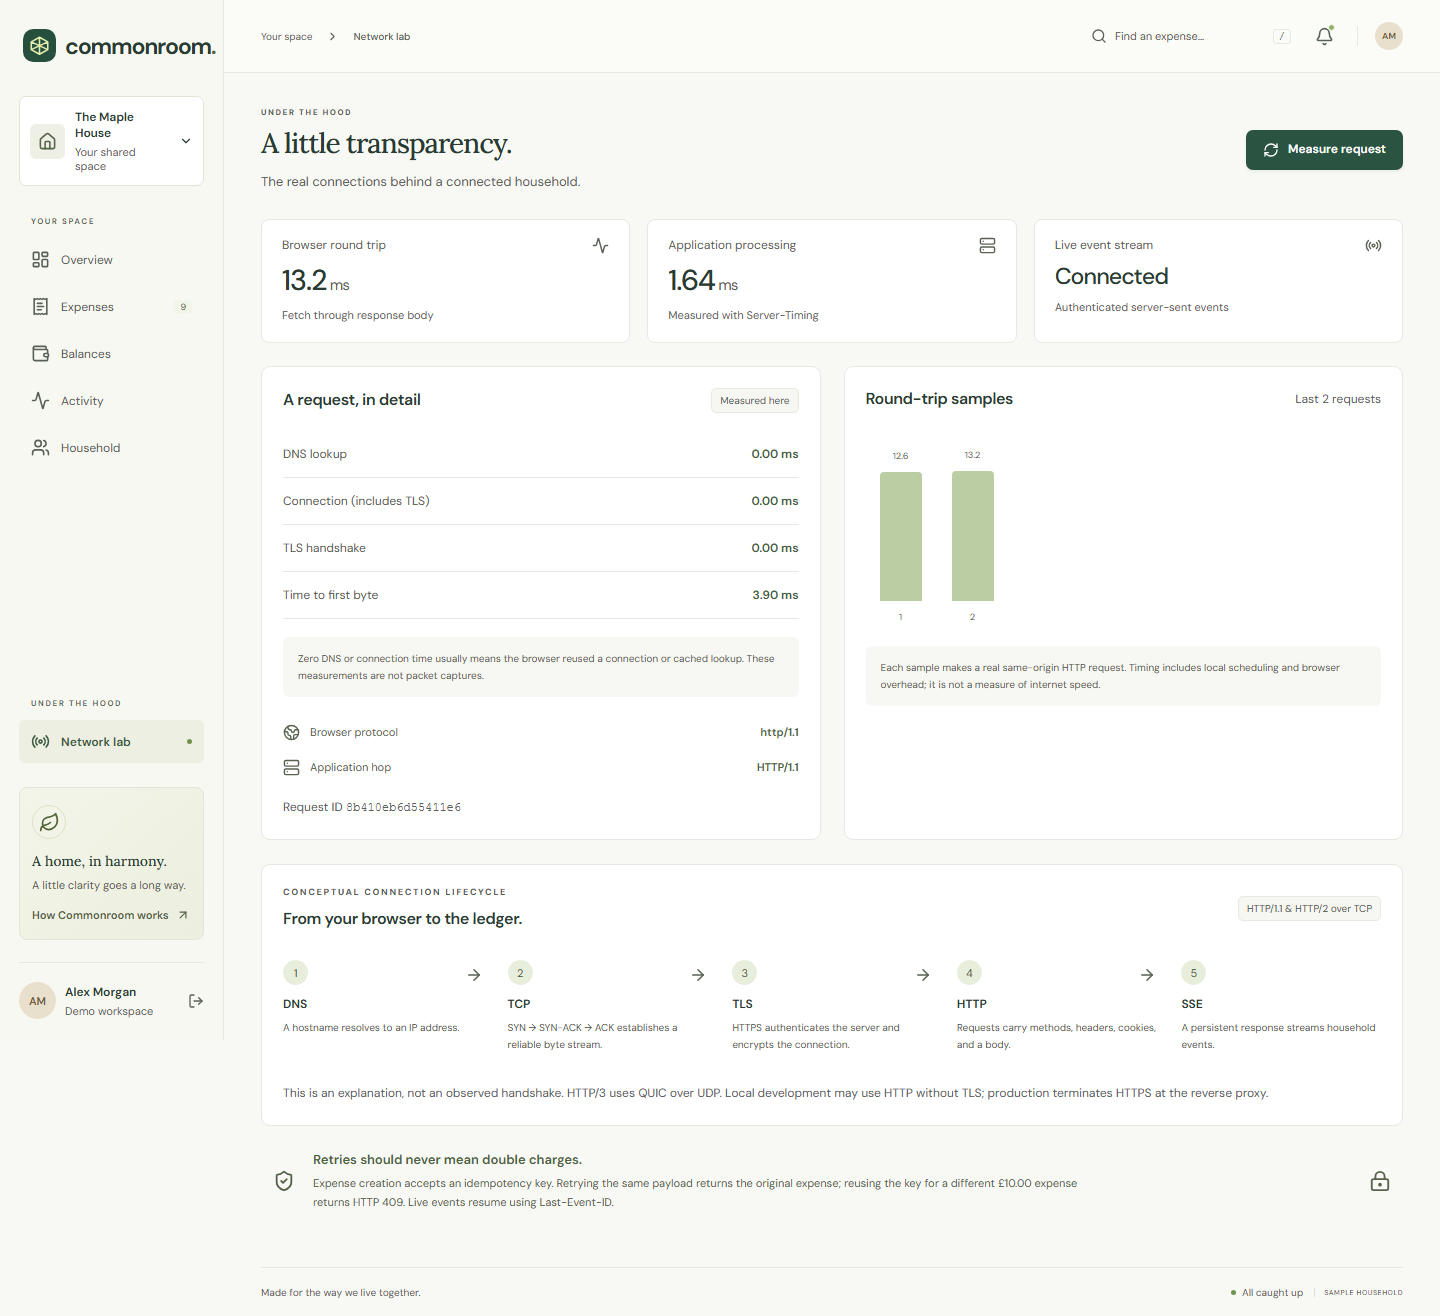
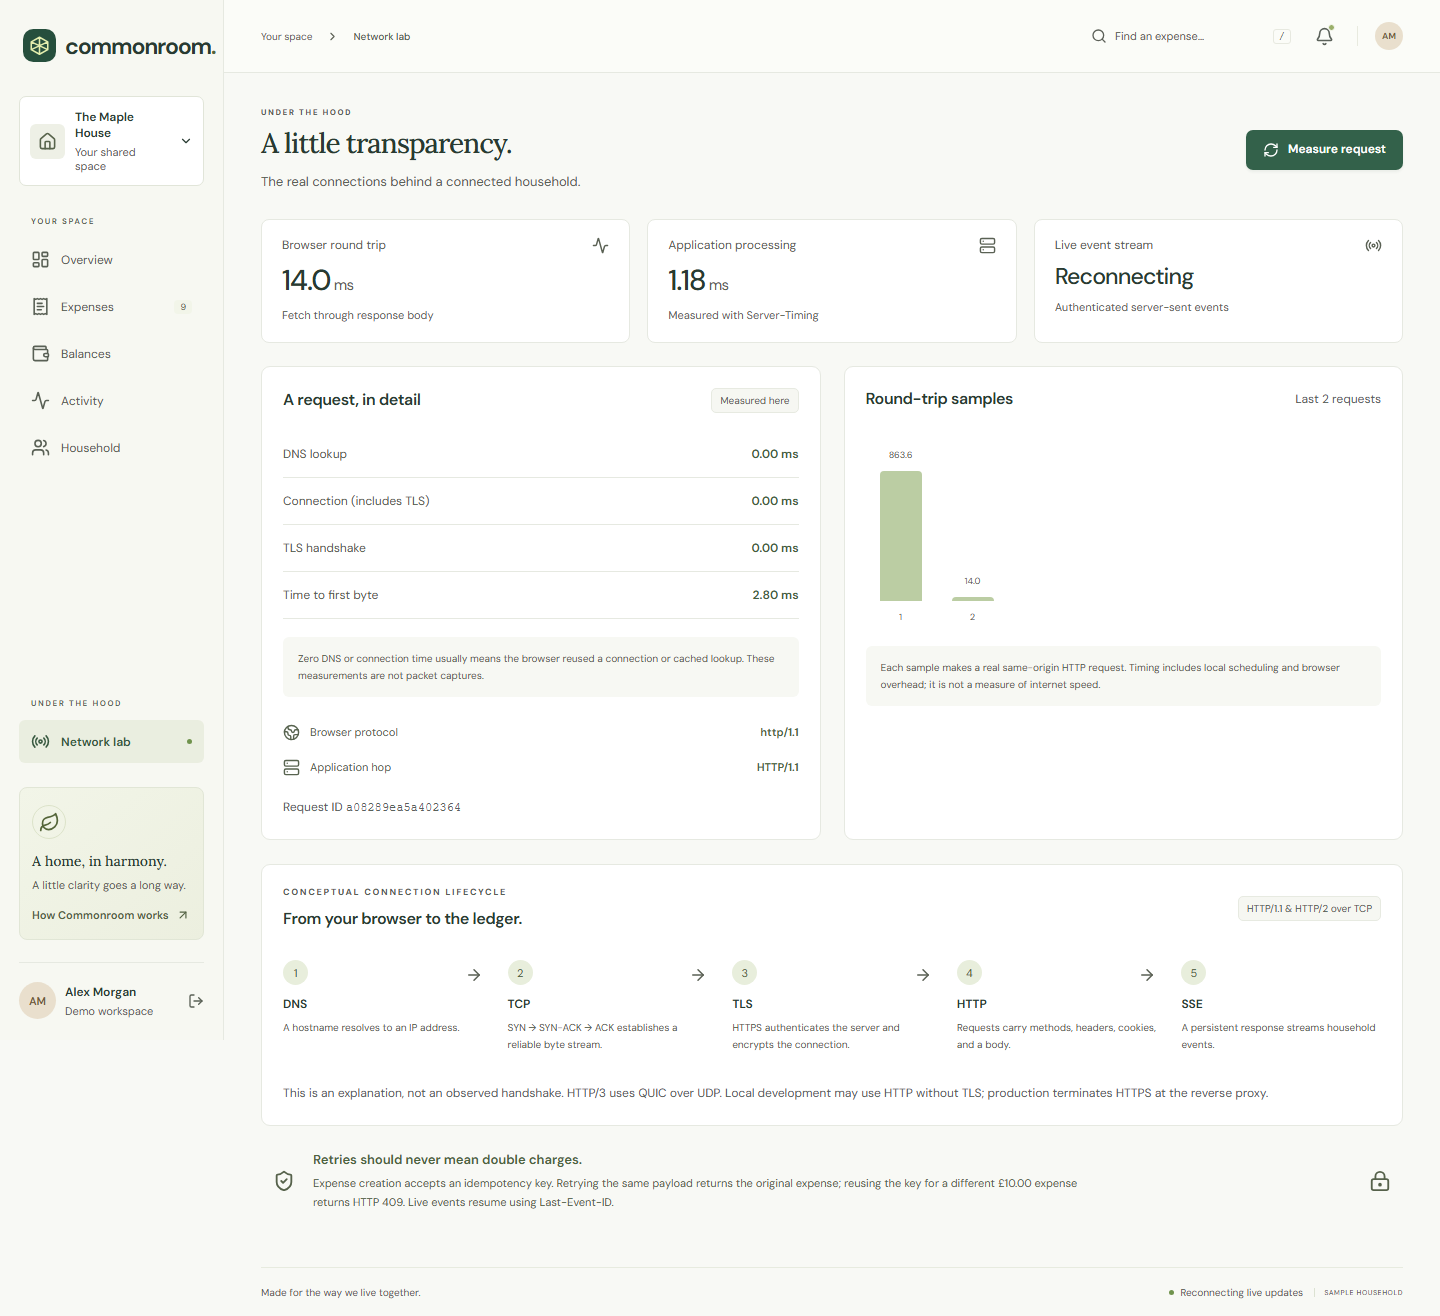
Verify live delivery and backups; refine release checks

diff --git a/web/tests/app.spec.ts b/web/tests/app.spec.ts
@@ -1,6 +1,11 @@
 import { expect, test } from "@playwright/test";
 import AxeBuilder from "@axe-core/playwright";
 
+const screenshotDirectory =
+  process.env.UPDATE_SCREENSHOTS === "true"
+    ? "../docs/images"
+    : "test-results/screenshots";
+
 test("the demo is navigable, accessible, and preserves a created expense", async ({
   page,
 }) => {
@@ -23,7 +28,7 @@ test("the demo is navigable, accessible, and preserves a created expense", async
   ).toBeVisible();
   await expect(page.getByText("All caught up")).toBeVisible();
   await page.screenshot({
-    path: "../docs/images/dashboard.png",
+    path: `${screenshotDirectory}/dashboard.png`,
     fullPage: true,
   });
   expect(
@@ -33,6 +38,9 @@ test("the demo is navigable, accessible, and preserves a created expense", async
         .analyze()
     ).violations,
   ).toEqual([]);
+  const observer = await page.context().newPage();
+  await observer.goto("/");
+  await expect(observer.getByText("All caught up")).toBeVisible();
   await page.getByRole("button", { name: "Add expense", exact: true }).click();
   await page.getByLabel("What was it for?").fill("A plant for the kitchen");
   await page.getByLabel("Amount (£)").fill("10.01");
@@ -41,6 +49,10 @@ test("the demo is navigable, accessible, and preserves a created expense", async
     .getByRole("button", { name: "Add expense", exact: true })
     .click();
   await expect(page.getByRole("dialog")).not.toBeVisible();
+  await expect(
+    observer.getByRole("button", { name: /A plant for the kitchen Groceries/ }),
+  ).toBeVisible({ timeout: 8000 });
+  await observer.close();
   await page
     .getByRole("button", { name: /A plant for the kitchen Groceries/ })
     .click();
@@ -63,7 +75,7 @@ test("the demo is navigable, accessible, and preserves a created expense", async
   await page.getByRole("button", { name: "Measure request" }).click();
   await expect(page.getByText("Last 2 requests")).toBeVisible();
   await page.screenshot({
-    path: "../docs/images/network-lab.png",
+    path: `${screenshotDirectory}/network-lab.png`,
     fullPage: true,
   });
   expect(
@@ -95,7 +107,10 @@ test("mobile navigation and expense dialog fit a narrow viewport", async ({
   await expect(
     page.getByRole("heading", { name: "Good to have you home, Alex." }),
   ).toBeVisible();
-  await page.screenshot({ path: "../docs/images/mobile.png", fullPage: true });
+  await page.screenshot({
+    path: `${screenshotDirectory}/mobile.png`,
+    fullPage: true,
+  });
   expect(
     await page.evaluate(
       () => document.documentElement.scrollWidth <= window.innerWidth,

diff --git a/web/src/App.tsx b/web/src/App.tsx
@@ -9,7 +9,6 @@ import {
   CheckCheck,
   ChevronDown,
   ChevronRight,
-  CircleHelp,
   Copy,
   Download,
   House,
@@ -21,7 +20,6 @@ import {
   Radio,
   ReceiptText,
   Search,
-  Settings2,
   ShieldCheck,
   SlidersHorizontal,
   Sparkles,

diff --git a/web/src/Network.tsx b/web/src/Network.tsx
@@ -1,7 +1,6 @@
 import { useEffect, useState } from "react";
 import {
   Activity,
-  ArrowDown,
   ArrowRight,
   Globe2,
   LockKeyhole,

diff --git a/tests/test_backup.py b/tests/test_backup.py
@@ -1,0 +1,20 @@
+import sqlite3
+
+import pytest
+
+from scripts.backup import backup
+
+
+def test_live_wal_backup_is_consistent_and_never_overwrites(tmp_path):
+    source, snapshot = tmp_path / "source.db", tmp_path / "snapshot.db"
+    db = sqlite3.connect(source)
+    db.execute("PRAGMA journal_mode=WAL")
+    db.execute("CREATE TABLE example (value INTEGER)")
+    db.execute("INSERT INTO example VALUES (123)")
+    db.commit()
+    backup(source, snapshot)
+    with sqlite3.connect(snapshot) as restored:
+        assert restored.execute("SELECT value FROM example").fetchone()[0] == 123
+    with pytest.raises(ValueError, match="exists"):
+        backup(source, snapshot)
+    db.close()

diff --git a/scripts/e2e_server.py b/scripts/e2e_server.py
@@ -1,5 +1,6 @@
 """Run browser tests against a fresh database, never a developer's household."""
 
+import logging
 import os
 import sys
 import tempfile
@@ -14,4 +15,5 @@ os.environ["APP_ENV"] = "development"
 
 with tempfile.TemporaryDirectory(prefix="commonroom-e2e-") as directory:
     app = create_app({"DATABASE": str(Path(directory) / "test.db"), "DEMO_ENABLED": True})
+    app.logger.setLevel(logging.WARNING)
     serve(app, host="127.0.0.1", port=8001, threads=24)

diff --git a/CHANGELOG.md b/CHANGELOG.md
@@ -1,0 +1,16 @@
+# Changelog
+
+## 1.0.0 — 2026-09-26
+
+First public release of Commonroom.
+
+- Responsive React/TypeScript household dashboard with locally bundled fonts and assets.
+- Exact-penny equal and weighted expense allocation, validated receipts, CSV export, and payment confirmation.
+- Revocable sessions, CSRF protection, household isolation, expiring invitations, and optional account recovery.
+- Atomic idempotent expense creation and an HMAC-linked audit trail.
+- Resumable live household events with connection quotas and session revalidation.
+- Network diagnostics with measured browser/application timings and protocol explanations.
+- Automated accounting, security, concurrency, browser, accessibility, dependency, and container checks.
+- Local Docker configuration, HTTPS reverse-proxy configuration, backup utility, and operational documentation.
+
+This release tracks externally made payments; it does not process transfers or connect to banks. See the documented capacity and security boundaries before deployment.

diff --git a/CONTRIBUTING.md b/CONTRIBUTING.md
@@ -23,6 +23,8 @@ The demo uses invented names and data. Browser tests run with a fresh temporary 
 
 Python uses Ruff. TypeScript, TSX, CSS, and frontend configuration use Prettier. Prefer comments that explain invariants and tradeoffs over comments that narrate syntax.
 
+Browser tests save screenshots under ignored `web/test-results/` by default. To deliberately refresh README images, run the browser suite with `UPDATE_SCREENSHOTS=true`, inspect the images, and commit only the intended visual changes.
+
 ## Changes to the schema
 
 Add the next numbered migration in `server/migrations/`, preserving existing migration files. Exercise migration from an existing database, and update backup/restore instructions if necessary. This project does not support automatic destructive migrations or downgrade migrations.
